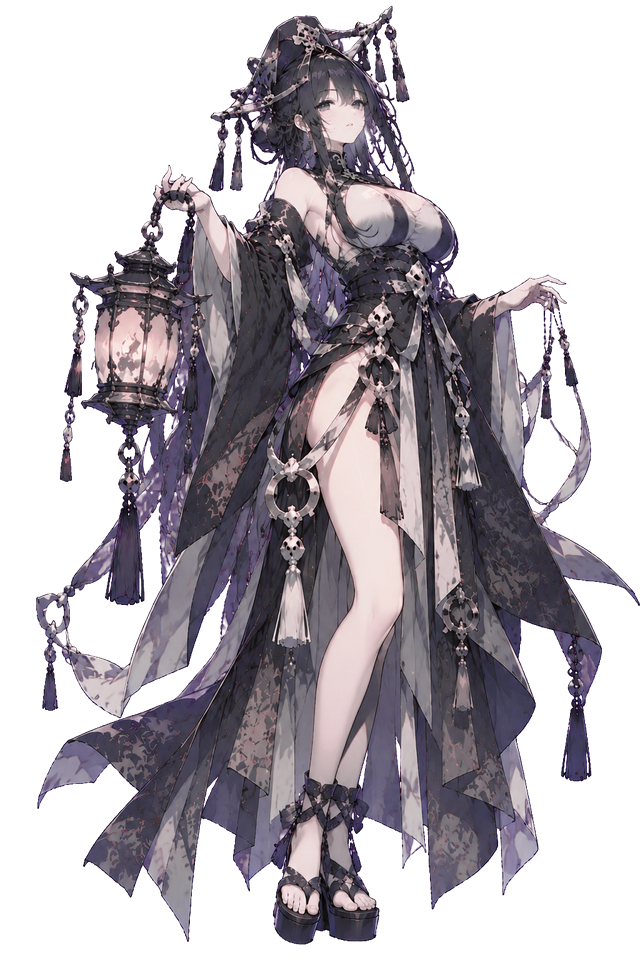
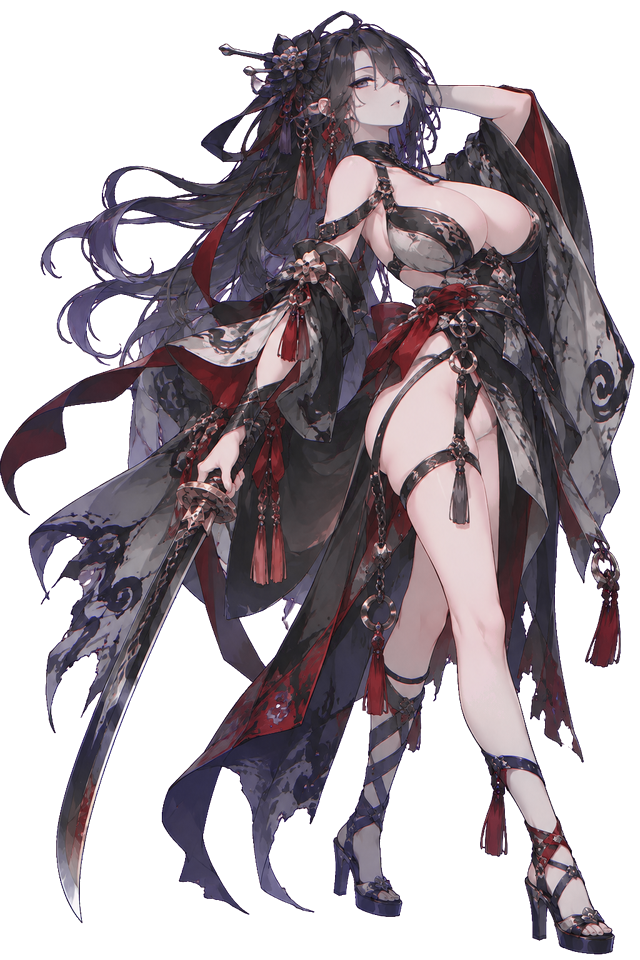
feat(art): 替换第5~8号敌人立绘，修正图鉴/敌人详情标题顶边裁切

diff --git a/assets/scripts/ui/pages/EnemyDetail.ts b/assets/scripts/ui/pages/EnemyDetail.ts
@@ -26,14 +26,14 @@ export function buildEnemyDetail(root: Node, gm: GameManager, id: string): void 
   const sub = boss ? '#c98a9a' : '#9a8fb0';
 
   const title = makeLabel(root, e.name, { fontSize: 40, color: accent });
-  title.setPosition(0, 630, 0);
+  title.setPosition(0, 590, 0); // 下移避免大字号标题在 1334 顶边被裁
   makeLabel(root, `蚀灵教 · ${TIER_NAMES[e.tier] ?? '？？？'} · 强度 ×${e.hpMul.toFixed(1)}`, {
     fontSize: 22, color: sub,
-  }).setPosition(0, 588, 0);
+  }).setPosition(0, 552, 0);
 
   // 全屏大立绘（铁律：深底不放裸立绘 → 坐层级冷色纸舞台）
   const stage = makeSpiritStage(root, 400, 560, TIER_STAGE[e.tier] ?? '#5a5468');
-  stage.setPosition(0, 250, 0);
+  stage.setPosition(0, 225, 0);
   makeSpirit(stage, enemyResPath(e.id), 360, '❓', 520).setPosition(0, 0, 0);
 
   // 设定描述（浅条深字，双行）

diff --git a/assets/scripts/ui/pages/Dex.ts b/assets/scripts/ui/pages/Dex.ts
@@ -22,7 +22,7 @@ export function buildDex(root: Node, gm: GameManager, tab: DexTab = 'spirit'): v
   const s = gm.state;
 
   const title = makeLabel(root, tab === 'spirit' ? '精怪图鉴' : '蚀灵教图鉴', { fontSize: 40, color: COLORS.text });
-  title.setPosition(0, 645, 0);
+  title.setPosition(0, 600, 0);
 
   // —— 页签切换（当前页签高亮 btnPrimary）——
   const tabs: Array<[string, DexTab]> = [['🟢 精怪', 'spirit'], ['⚔ 蚀灵教', 'enemy']];
@@ -32,7 +32,7 @@ export function buildDex(root: Node, gm: GameManager, tab: DexTab = 'spirit'): v
       w: 200, h: 50, fontSize: 24,
       ...(active ? { bg: COLORS.btnPrimary } : {}),
     });
-    btn.setPosition(-110 + i * 220, 585, 0);
+    btn.setPosition(-110 + i * 220, 540, 0);
   });
 
   let rows: number;

diff --git a/assets/scripts/logic/GameConfig.ts b/assets/scripts/logic/GameConfig.ts
@@ -107,7 +107,7 @@ export const RARITY_LABEL: { N: string; R: string; SR: string; SSR: string } = {
 };
 
 // 当前精灵立绘缓存版本：改图后 +1，强制资源重新加载（Cocos 用 resources 动态加载，靠查询参数破缓存）
-export const SPIRIT_VERSION = 29; // 29: 初生立绘统一 640×960 画布 + 小卡片视觉尺寸补偿
+export const SPIRIT_VERSION = 30; // 30: 替换第 5~8 号敌人立绘（墨傀使/执灯长老/血砚先生/教主）
 
 // 全局养成加成重算：idleMult = 等级收益(1 + (level-1)*0.1) + 进化总阶数 * 每阶加成
 export function recalcIdleMult(state: {
